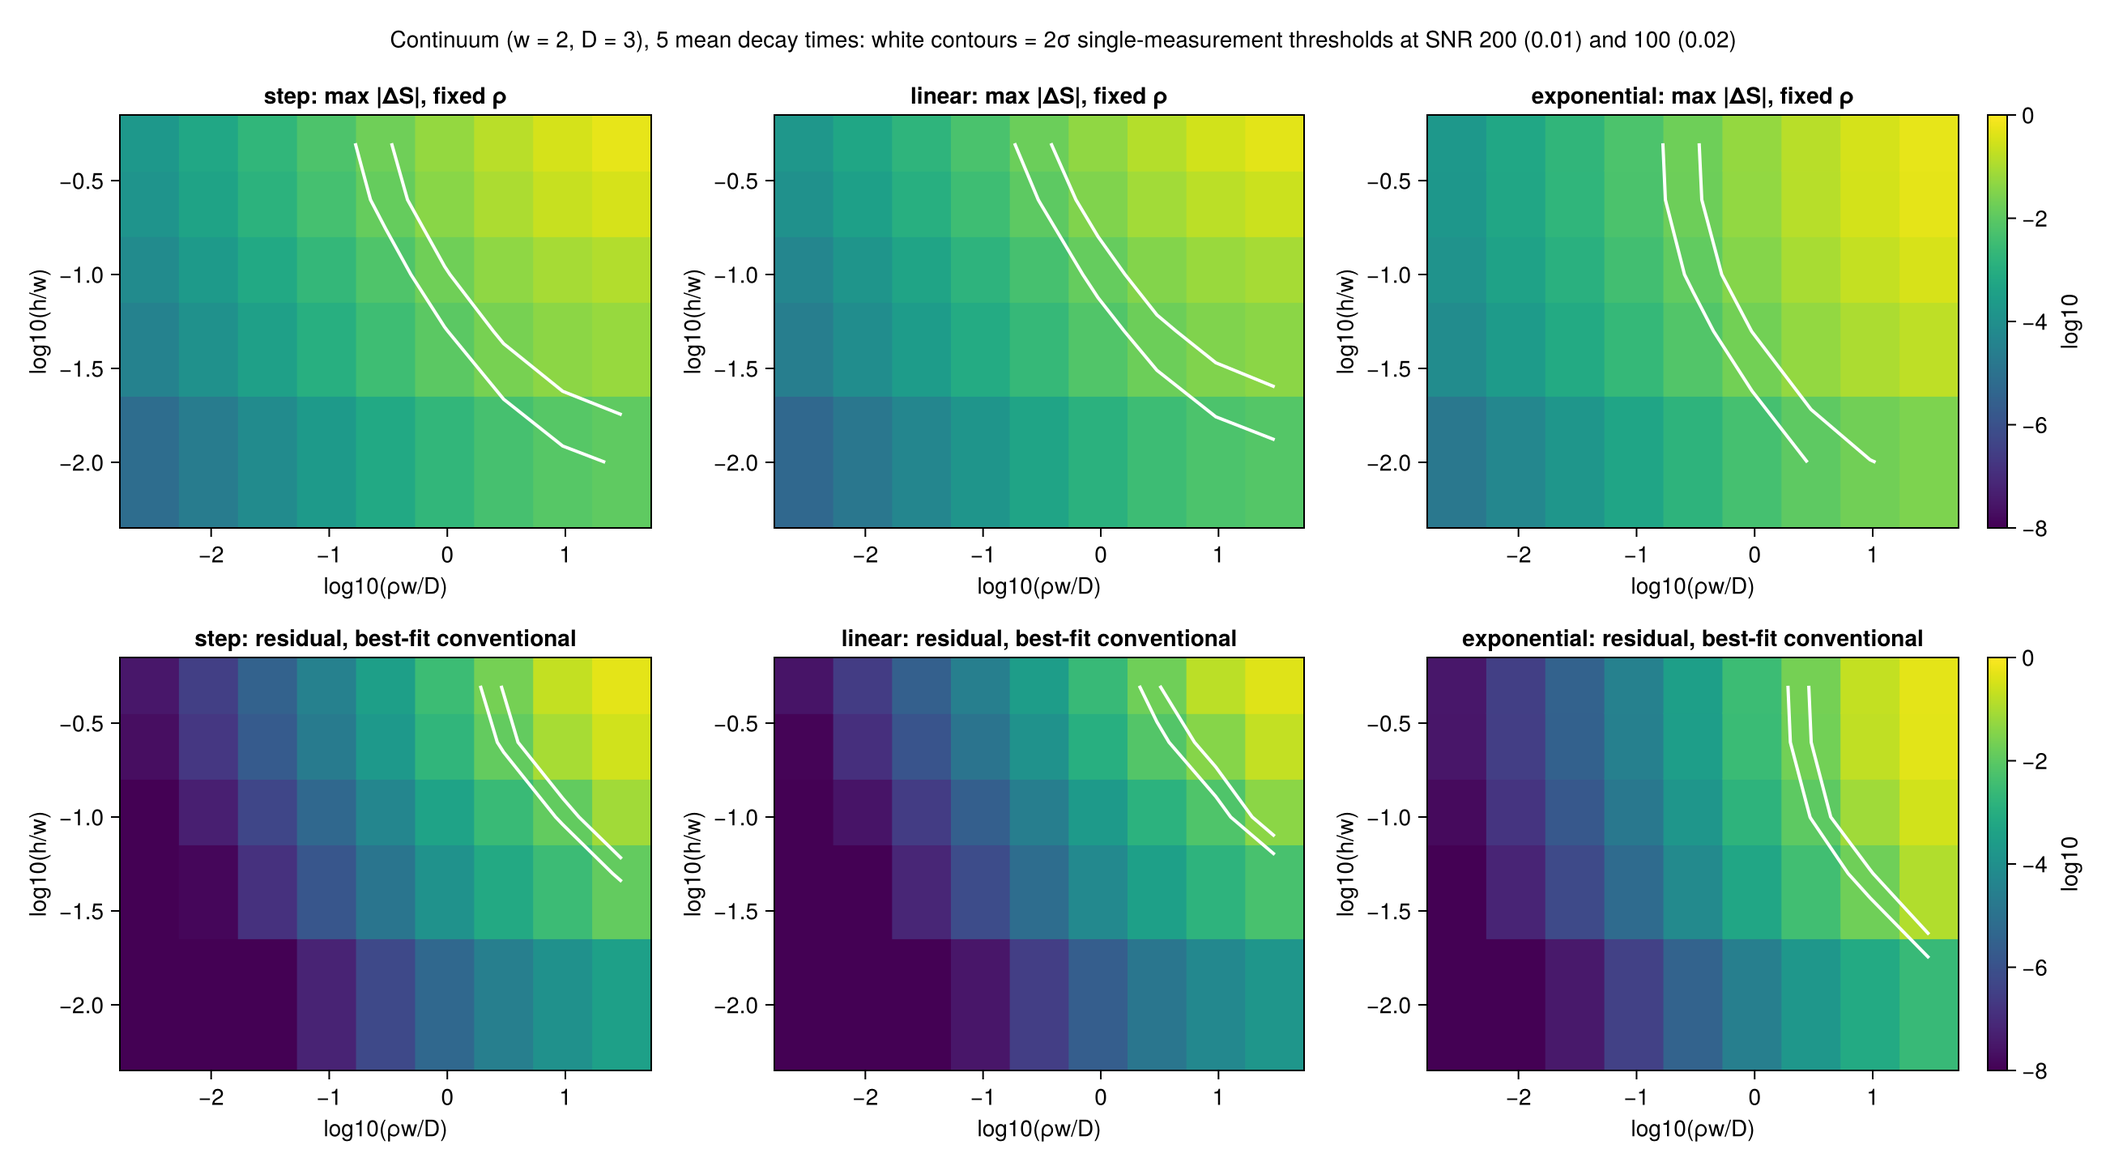
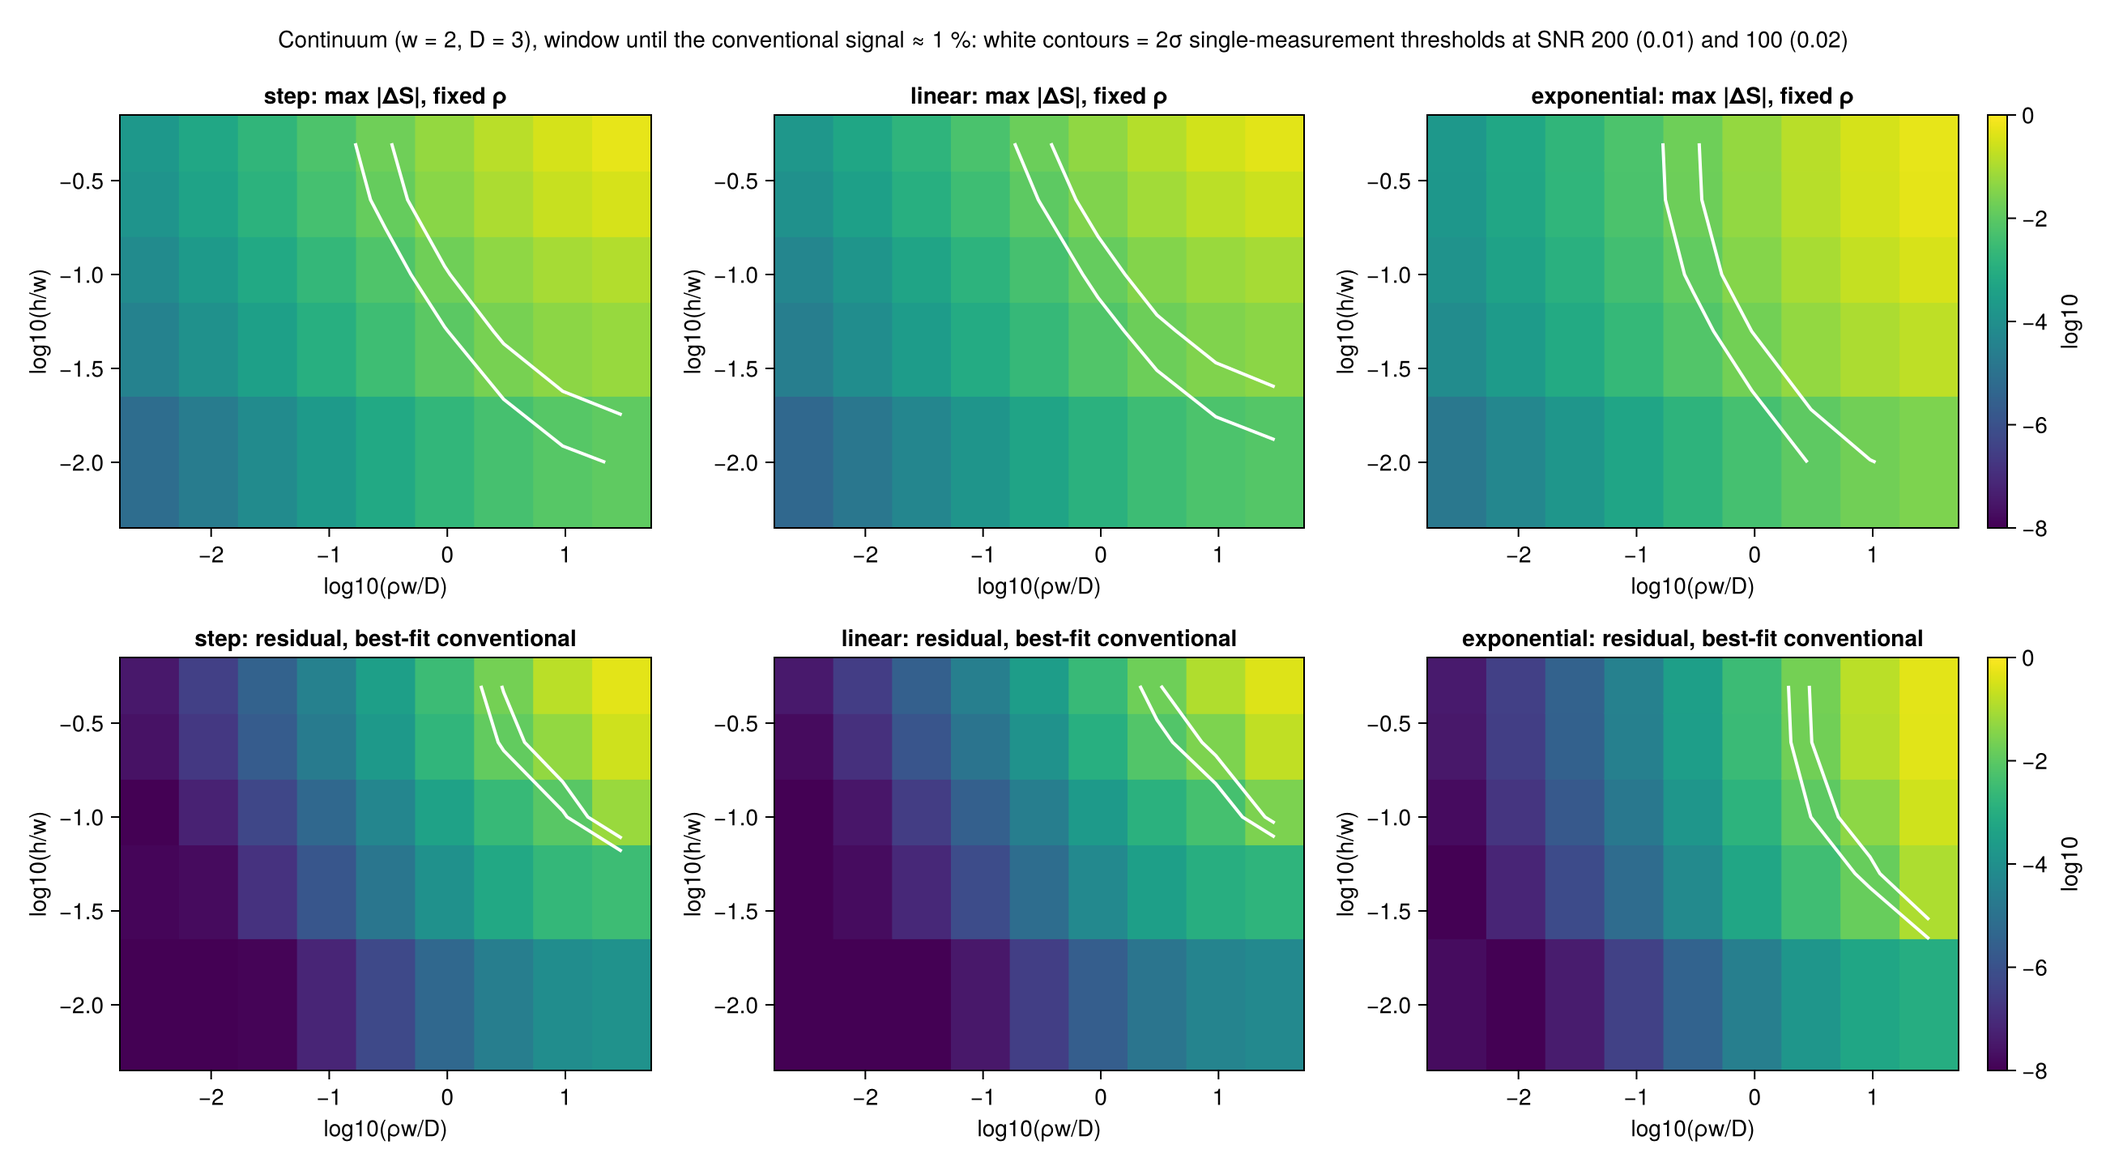
C1 follow-up review fixes: open-ended best-fit search (conventional ceiling D·pi²/w²), window to 1 % signal, caveats, deduplicated profile spread, validation wording

diff --git a/research/phase2_record.md b/research/phase2_record.md
@@ -36,11 +36,11 @@ Baselines are in [baseline_record.md](baseline_record.md). The baseline θ_relax
 | P2.4.5 (identity) | Mean-exponent identity E[−ln M] = 2ρt/w, step / linear (incl. overlapping h = 1.5) / exponential, τ = 1e-2 and 4e-2 | \|z\| ≤ 3 | **PASS** (10 of 10; \|z\| ≤ 1.1) |
 | P2.4.5 (sweep) | Exponential profile: attenuation vs h, monotonicity, decay shape (τ = 1e-2) | every step > 2 SEM; curvature reported | **PASS**: 15 of 15 steps; curvature 0 within noise (max 1.1 SEM); S(50) from 1 to 0.00180 (h = 2.0) |
 | P2.5.0 | Conventional model at the same ρ: θ = ρ√(π/D), mean-exponent identity at D = 1, 3, 6, τ = 1e-2, 4e-2 | \|z\| ≤ 3 | **PASS** (6 of 6, \|z\| ≤ 0.9); layer and baseline follow identical trajectories |
-| P2.5.1–P2.5.5 | Sensitivity to the spatial distribution at fixed ρ (layer vs conventional model, and profile vs profile; paired), sweeps h, w, D, ρ | characterisation vs MC SEM and SNR 100/200 | 41 distinct configurations: none reaches SNR 100 or 200 (32 MC-resolved, 9 not); max \|ΔS\| = 2.4e-3 (exponential, ρ = 0.1). Profiles separate from each other beyond 3σ in 39 of 40 pairs, by ≤ 1.7e-3. Shapes fall on one curve vs centroid within noise; curves mono-exponential (residual ≤ 1.4e-4) |
+| P2.5.1–P2.5.5 | Sensitivity to the spatial distribution at fixed ρ (layer vs conventional model, and profile vs profile; paired), sweeps h, w, D, ρ | characterisation vs MC SEM and SNR 100/200 | 41 distinct configurations: none reaches SNR 100 or 200 (32 MC-resolved, 9 not); max \|ΔS\| = 2.4e-3 (exponential, ρ = 0.1). Profiles separate from each other beyond 3σ in 39 of 40 pairs, by ≤ 1.7e-3. Shapes fall on one curve vs centroid within noise; curves mono-exponential (residual ≤ 1.4e-4) **Superseded in part by Review C1 (timestep bias); see the C1 rows.** |
 | P2.5.6 (prerequisite) | Idealised spin echo (instantaneous pulses) = free decay, conventional and exponential layer, TE = 50 ms | \|z\| ≤ 3 | **PASS** (both z = 0.00: equal to 6 digits) |
-| P2.5.6, P2.5.7 | Apparent T₂ vs microstructure and vs TE (paper Figs. 9, 8A analogues), conventional + three profiles at fixed ρ; same h and same centroid | ΔT₂/T₂ vs paired SEM and T₂ noise at SNR 100/200 | none observable at SNR 100/200; ΔT₂/T₂ ≤ 5.7e-3; same h: profiles separate (34/52 distinct pairs > 3σ, unpaired SEM, ≤ 3.8e-3); same centroid: residual ≤ 2.9e-4 (2/51 > 3σ unpaired); ΔT₂/T₂ flat in TE |
+| P2.5.6, P2.5.7 | Apparent T₂ vs microstructure and vs TE (paper Figs. 9, 8A analogues), conventional + three profiles at fixed ρ; same h and same centroid | ΔT₂/T₂ vs paired SEM and T₂ noise at SNR 100/200 | none observable at SNR 100/200; ΔT₂/T₂ ≤ 5.7e-3; same h: profiles separate (34/52 distinct pairs > 3σ, unpaired SEM, ≤ 3.8e-3); same centroid: residual ≤ 2.9e-4 (2/51 > 3σ unpaired); ΔT₂/T₂ flat in TE **Superseded in part by Review C1 (timestep bias); see the C1 rows.** |
 | Review C1 | Timestep bias of the fixed-ρ profile effect (P2.5, P2.5.6/7): paired ΔS at τ = 1e-2, 2.5e-3, 6.25e-4 vs exact 1D continuum | characterisation | **confirmed**: ΔS converges to the continuum as τ falls; thin-layer positive ΔS at τ = 1e-2 is an artefact; \|ΔS\| underestimated 10–65 % at h = 0.2 |
-| Review C1 follow-up | P2.5, P2.5.6/7 recomputed with the exact 1D continuum benchmark; wider ρw/D map with best-fit conventional | validated vs MC within 2.6 SEM | all ΔS, ΔT₂/T₂ < 0 (no sign change); ∝ ρ and ∝ 1/D; same centroid: profiles within 11 %; separable from a fitted conventional model (single curve, SNR 200) only for ρw/D ≳ 3–10 and h/w ≳ 0.05–0.25 depending on profile |
+| Review C1 follow-up | P2.5, P2.5.6/7 recomputed with the exact 1D continuum benchmark; wider ρw/D map with best-fit conventional | validated vs MC within 2.6 SEM | all ΔS, ΔT₂/T₂ < 0 (no sign change); ∝ ρ and ∝ 1/D; same centroid: profiles within 11 %; separable from a fitted conventional model (single curve, SNR 200) only for ρw/D ≳ 3 with h/w ≳ 0.1–0.5 depending on profile (beyond the conventional model's ceiling D·π²/w² no θ fits) |
 | P2.6.1 | V1: timestep plateau (toy, h = 0.1, ΔR₂(0) = 0.1, τ = 1e-5–0.1 ms) + MCMR at 4 τ | τ_conv at 1 % / 0.1 %; MCMR = toy within 2 SEM | 1 % never exceeded (τ_conv ≥ 0.1 ms); τ_conv(0.1 %) = 0.086 ms; bias at 0.1 ms −1.1e-3 (less attenuation); MCMR vs toy **PASS** (\|z\| ≤ 1.3) |
 | P2.6.2, P2.6.3 | V2 (h²) and V3 (1/D) scaling of τ_conv; decision point (rate) | τ_conv·D/h² and τ_conv·D constant within ±30 % | **V2 FAIL, V3 FAIL** (no h² or 1/D scaling; h/D trends at ΔR₂(0) = 0.1 within noise). τ_conv set by ΔR₂(0)·τ: 0.048–0.13 (1 %), 0.0028–0.0065 (0.1 %) over h = 0.01–0.4, D = 1–3; bias at 0.1 ms ∝ ΔR₂(0) |
 | P2.6.4 | Profile dependence of the timestep error (linear vs step, toy + MCMR check) | record whether the constraint depends on shape | linear less demanding in every pair (bias at 0.1 ms 0.53–0.78× step); error at c = 0.005 at most 1.2e-3 ± 3e-4 (linear), 1.5e-3 ± 4e-4 (step), 8.3e-4 ± 2e-4 (exponential) → same c for all three; MCMR = toy for linear (\|z\| ≤ 1.3) |
@@ -921,7 +921,7 @@ Independent whole-project review (2026-10-12): an exact 1D continuum solution of
 
 Script [p2_5_tau_check.jl](phase2/p2_5_tau_check.jl) → [results/phase2/p2_5_tau_check/](results/phase2/p2_5_tau_check/). Same paired comparison as P2.5 at τ = 1e-2, 2.5e-3, 6.25e-4 ms (w = 2, D = 3, ρ = 0.01, R₂_bulk = 0, seeds 1–10, 50000 spins). ΔS at t = 90 ms:
 
-| profile | h (µm) | τ = 1e-2 | τ = 2.5e-3 | τ = 6.25e-4 | continuum | (MC at 6.25e-4 − continuum)/SEM |
+| profile | h (µm) | τ = 1e-2 | τ = 2.5e-3 | τ = 6.25e-4 | continuum (reviewer's script, N = 3000; the committed solver gives values within 1 %) | (MC at 6.25e-4 − continuum)/SEM |
 |---|---|---|---|---|---|---|
 | step | 0.05 | +1.21e-04 ± 1e-05 | +3.57e-05 ± 1e-05 | -2.14e-05 ± 8e-06 | -3.95e-05 | +2.4 |
 | linear | 0.05 | +1.61e-04 ± 1e-05 | +6.54e-05 ± 1e-05 | -9.03e-06 ± 7e-06 | -2.78e-05 | +2.6 |
@@ -933,7 +933,7 @@ Script [p2_5_tau_check.jl](phase2/p2_5_tau_check.jl) → [results/phase2/p2_5_ta
 
 **Cause.** The timestep constraint c = 0.005 (P2.6.5) keeps the error in the decay rate R near 0.1 %, which it does. But the profile effect at fixed ρ is itself only ≈ 0.03–0.15 % of R, the same size as that error, and the error depends on the profile. For comparisons of profiles at fixed ρ the timestep must be set by the error in ΔS, not in R.
 
-**Affected claims (not yet corrected; pending decision):** P2.5 and P2.5.6/P2.5.7 statements on the thin-layer sign (positive ΔS / longer T₂), the sign change near centroid 0.05 µm, "linear does not follow 1/D", the ρ-scaling per decade, the extrapolated ρ for SNR 200, and the size of |ΔS| and ΔT₂/T₂ for h ≤ 0.2. Not affected: the absence of any configuration reaching the SNR-100/200 thresholds (continuum maximum |ΔS| ≈ 2.7e-3), the mapping θ = ρ√(π/D), and the step, linear and exponential verifications.
+**Affected claims (corrected in "Review C1 follow-up" below):** P2.5 and P2.5.6/P2.5.7 statements on the thin-layer sign (positive ΔS / longer T₂), the sign change near centroid 0.05 µm, "linear does not follow 1/D", the ρ-scaling per decade, the extrapolated ρ for SNR 200, and the size of |ΔS| and ΔT₂/T₂ for h ≤ 0.2. Not affected: the absence of any configuration reaching the SNR-100/200 thresholds (continuum maximum |ΔS| ≈ 2.7e-3), the mapping θ = ρ√(π/D), and the step, linear and exponential verifications.
 
 ## Review C1 follow-up: P2.5 and P2.5.6/7 recomputed with the exact continuum benchmark
 
@@ -966,7 +966,11 @@ Script [p2_5_continuum.jl](phase2/p2_5_continuum.jl) and figures [p2_5_continuum
 | P2.5 h sweep τ=1e-2 | linear | 2 | -4.05e-04 ± 2e-05 | -4.08e-04 | +0.2 |
 | P2.5 h sweep τ=1e-2 | exponential | 2 | -4.04e-04 ± 2e-05 | -4.08e-04 | +0.2 |
 
-All points agree within 2.6 SEM. The continuum therefore stands in for the Monte Carlo values below; the Monte Carlo at τ = 1e-2 stays recorded above as the biased first pass.
+All points agree within 2.6 SEM. Two caveats:
+- The two thin-layer points (h = 0.05) both sit on the same side (z = +2.3, +2.6), and their τ trend has not clearly levelled off (step h = 0.05: −8.5e-5 then −5.7e-5 per factor-4 step; a first-order extrapolation lands on the continuum value, a √τ extrapolation overshoots it). The negative sign is established; the thin-layer magnitudes are consistent with, but not independently confirmed by, Monte Carlo.
+- Step h = 1 and linear h = 2 are the same uniform model with identical Monte Carlo data, so they count as one comparison.
+
+The continuum is independently checked against an exact non-uniform case (step layer, h < w/2: lowest rate from the matching equation κ·tanh(κh) = k·tan(k(w/2 − h)), agreement to 1.7e-8 relative; review of this follow-up). It therefore stands in for the Monte Carlo values below; the Monte Carlo at τ = 1e-2 stays recorded above as the biased first pass.
 
 **P2.5 corrected (fixed ρ, layer − conventional, readouts 0:10:200).**
 - All 41 distinct configurations give **negative ΔS**: at the same ρ the layer always attenuates slightly more than the conventional model, and ΔS → 0 as h → 0. The largest is −2.68e-3 (exponential, h = 0.2, ρ = 0.1). None reaches the SNR-100/200 thresholds (0.02 / 0.01).
@@ -977,20 +981,20 @@ All points agree within 2.6 SEM. The continuum therefore stands in for the Monte
 
 **P2.5.6/7 corrected (apparent T₂, TE = 50; R₂_bulk = 1/2000).**
 - Every ΔT₂/T₂ is negative, in both matchings and at every TE. The largest is −6.0e-3 (same h) and −3.5e-3 (same centroid), both exponential at D = 0.5. None reaches the two-point T₂ noise at SNR 200.
-- **Centroid matching.** At the same h the three profiles differ by up to 69 % of the effect (largest pair difference 3.65e-3). At the same centroid they agree within 11 % (median 4 %, largest pair difference 2.75e-4). The centroid-collapse conclusion holds, now without the timestep bias; the residual is ≈ 10 %.
+- **Centroid matching** (`p2_5_continuum_figs.jl`, distinct configurations, |a − b|/max(|a|, |b|) per profile pair at TE = 50). At the same h the three profiles differ by up to 69 % of the effect (median 46 %, 52 pairs; largest difference 3.65e-3). At the same centroid they agree within 11 % (median 4 %, 51 pairs; largest difference 2.75e-4). The centroid-collapse conclusion holds, now without the timestep bias; the residual is ≈ 10 %.
 - **TE.** ΔT₂/T₂ is constant in TE from 30 to 200 ms to within 2e-6. There is no thin-layer "longer T₂".
 
 ![continuum T2](results/phase2/p2_5_continuum/p2_5_continuum_t2.png)
 
-**Wider map (w = 2, D = 3, ρw/D = 0.003–30, h/w = 0.01–0.5; five mean decay times).** Two quantities, each against the single-measurement thresholds (0.01 = 2σ at SNR 200):
+**Wider map (w = 2, D = 3, ρw/D = 0.003–30, h/w = 0.01–0.5; no bulk R₂; 41 readouts from 0 until the conventional signal reaches ≈ 1 %).** Two quantities, each against the single-measurement threshold (0.01 = 2σ at SNR 200):
 - max |ΔS| at **fixed ρ** (ρ known);
-- the residual after fitting the **conventional model's ρ freely** to the layer curve, which is the realistic test for a single condition.
+- the minimax residual after fitting the **conventional model's ρ freely** to the layer curve, which is the realistic test for a single condition. The fit is a coarse scan of ρ_fit over e^−4…e^8 × ρ, then golden-section refinement. (Review of this follow-up: the first version searched only ±1.5 decades and stopped at its edge in 18 rows.)
 
 | profile | h/w | fixed ρ: first ρw/D with max\|ΔS\| ≥ 0.01 | best-fit conventional: first ρw/D with residual ≥ 0.01 |
 |---|---|---|---|
 | step | 0.01 | 30 | > 30 |
-| step | 0.05 | 3 | 30 |
-| step | 0.1 | 0.95 | 9.5 |
+| step | 0.05 | 3 | > 30 |
+| step | 0.1 | 0.95 | 30 |
 | step | 0.25 | 0.3 | 3 |
 | step | 0.5 | 0.3 | 3 |
 | linear | 0.01 | > 30 | > 30 |
@@ -1006,8 +1010,10 @@ All points agree within 2.6 SEM. The continuum therefore stands in for the Monte
 
 ![map](results/phase2/p2_5_continuum/p2_5_continuum_map.png)
 
-- At fixed ρ the profile effect becomes visible at SNR 200 once ρw/D is of order 0.3–1 for layers with h/w ≥ 0.1, and later for thinner ones.
-- With the conventional model's ρ free, a single free-decay curve separates from it at SNR 200 only for ρw/D of order 3–10 with a thick enough layer: exponential from h/w ≈ 0.05 (ρw/D ≈ 9.5), step from h/w ≈ 0.1 (≈ 9.5), linear from h/w ≈ 0.25 (≈ 9.5); at h/w ≥ 0.25 already from ρw/D ≈ 3 for step and exponential. Below that, a fitted conventional model reproduces the layer curve within the single-measurement noise.
+- At fixed ρ the profile effect becomes visible at SNR 200 once ρw/D is about 0.3–1 for layers with h/w ≥ 0.1 (exponential from h/w = 0.05), and later for thinner ones.
+- With the conventional model's ρ free, a single free-decay curve separates from it at SNR 200 only for ρw/D ≈ 3–30 with a thick enough layer: from ρw/D ≈ 3 for step and linear at h/w = 0.5, step at 0.25, and exponential at h/w ≥ 0.1; later for thinner layers; not at all within ρw/D ≤ 30 for h/w ≤ 0.05 (step, linear) or 0.01 (all).
+- **Why the fit fails there.** In 15 rows (ρw/D ≥ 9.5) the best conventional fit runs to ρ_fit → ∞, i.e. perfectly absorbing walls. A wall sink cannot decay the signal faster than D·π²/w² = 7.40 ms⁻¹ (w = 2, D = 3), whereas a strong layer relaxes spins inside the volume; for example, step h/w = 0.25 at ρw/D = 9.5 decays at 9.36 ms⁻¹. The residual there has converged to its limit: pushing ρ_fit from e^8 to e^16 × ρ changes it by ≤ 0.2 %. Beyond this ceiling no conventional θ can reproduce the layer curve.
+- **Caveats.** These are single conditions (one w, D) of free decay on walls, with no bulk R₂. The residual is a maximum over 41 correlated readouts compared with a single-point 2σ threshold, so it indicates rather than calibrates detectability. A joint fit across several w, D or TE at a shared ρ is the stronger test and has not been done.
 - All earlier P2.5 runs had ρw/D ≤ 0.07, well inside the region where neither test separates the models.
 
 **Superseded statements.** In the P2.5 and P2.5.6/7 sections above, these statements come from the timestep-biased Monte Carlo and are replaced by this section:

diff --git a/research/project-progress-tracker.md b/research/project-progress-tracker.md
@@ -224,11 +224,11 @@ Characterisation mode: **ρ fixed**, same reference configuration for every prof
 
 | ID | ☐ | Task | Pass criterion | Output |
 |---|---|---|---|---|
-| P2.5.1 | ☑ | Fixed ρ, λ/*w* ≪ 1 (e.g. 0.01–0.05), all profiles | Fixed ρ **and** fixed *h* (proposal §3.2 aim). Record the level of agreement between profiles with σ; no expected outcome assumed | h ≤ 0.1 (h/w ≤ 0.05), fixed ρ and h: step, linear and exponential separate from each other beyond 3σ (paired; e.g. linear − exponential 1.8e-4 ± 8e-6 at h = 0.1), all ≤ 1.8e-4, far below MRI noise; vs conventional model ≤ 1.6e-4. `p2_5_summary/profile_pairs.csv` |
+| P2.5.1 | ☑ | Fixed ρ, λ/*w* ≪ 1 (e.g. 0.01–0.05), all profiles | Fixed ρ **and** fixed *h* (proposal §3.2 aim). Record the level of agreement between profiles with σ; no expected outcome assumed | h ≤ 0.1 (h/w ≤ 0.05), fixed ρ and h: step, linear and exponential separate from each other beyond 3σ (paired; e.g. linear − exponential 1.8e-4 ± 8e-6 at h = 0.1), all ≤ 1.8e-4, far below MRI noise; vs conventional model ≤ 1.6e-4. `p2_5_summary/profile_pairs.csv` **Corrected (Review C1):** the vs-conventional values here are timestep-biased (thin layers positive); in the exact continuum all are negative and small. |
 | P2.5.2 | ☑ | Fixed ρ, sweep λ/*w* from 0.01 to 0.5, all profiles | Curves of *S*(*t*) (and a descriptive rate) vs *h*/*w* per profile | h/w 0.025–1 (h = 0.05–2, w = 2; criterion asked 0.01–0.5) at fixed ρ: ΔS(t) curves and peaks per shape; also w, D, ρ sweeps. `p2_5_summary/p2_5_sweeps.png`, `p2_5_curves.png` |
 | P2.5.3 | ☑ | Report centroid λ*ū* alongside λ for each profile (step 0.5λ, linear 0.33λ, poly *n* λ/(*n*+2), exponential 1.0λ) | Centroid column in every shape table | centroid column in every P2.5 table (exponential truncated at w: h(1 − (c+1)e^(−c))/(1 − e^(−c))) |
 | P2.5.4 | ☑ | Replot P2.5.2 against centroid instead of λ | Note whether shape differences shrink | shapes fall on one curve vs centroid within noise (≤ 1.3 combined SEM); resolved sign change between centroids 0.033 and 0.1 µm. `p2_5_centroid.png` **Corrected (Review C1):** the sign change was a timestep artefact; in the exact continuum ΔS < 0 everywhere and the same-centroid collapse holds within 11 %. |
-| P2.5.5 | ☑ | Summary: where (if anywhere) profiles separate beyond 3σ on walls | Written paragraph with numbers | profiles separate beyond 3σ (MC) in 39 of 40 pairs, by ≤ 1.7e-3; none of 41 configurations reaches SNR 100/200 (vs conventional model max 2.4e-3); layer curves mono-exponential. `phase2_record.md` P2.5 **Corrected (Review C1):** continuum: all ΔS < 0, ∝ ρ, ∝ 1/D, max 2.7e-3; separable from a fitted conventional model only for ρw/D ≳ 3–10. |
+| P2.5.5 | ☑ | Summary: where (if anywhere) profiles separate beyond 3σ on walls | Written paragraph with numbers | profiles separate beyond 3σ (MC) in 39 of 40 pairs, by ≤ 1.7e-3; none of 41 configurations reaches SNR 100/200 (vs conventional model max 2.4e-3); layer curves mono-exponential. `phase2_record.md` P2.5 **Corrected (Review C1):** continuum: all ΔS < 0, ∝ ρ, ∝ 1/D, max 2.7e-3; separable from a fitted conventional model only for ρw/D ≳ 3 with thick layers (h/w ≳ 0.1–0.5). |
 | P2.5.6 | ☑ | Apparent T₂ vs w, h, D, ρ for the conventional model and three profiles at fixed ρ (Fig. 9 analogue, TE = 20/50/100); sub-test at the same centroid (centroid sweep instead of h) | ΔT₂/T₂ reported with paired SEM and two-point T₂ noise at SNR 100/200 | none observable; same h: profiles separate (34/52 pairs > 3σ unpaired, ≤ 3.8e-3); same centroid: residual ≤ 2.9e-4 (2/51 > 3σ). `p2_5_t2_summary/` **Corrected (Review C1):** continuum ΔT₂/T₂ < 0 everywhere, max −6.0e-3 (same h), −3.5e-3 (same centroid), profiles within 11 % at same centroid. |
 | P2.5.7 | ☑ | Apparent T₂ vs echo time (TE = 5–200 ms) for the conventional model and three profiles at fixed ρ, w = 1, 2, 5 and h = 0.05, 0.2, 0.5; sub-test at the same centroid (Fig. 8A analogue, no off-resonance) | ΔT₂/T₂ vs TE with paired SEM and two-point T₂ noise at SNR 200 | T₂_app flat in TE; ΔT₂/T₂ constant in TE beyond ≈ 30 ms, |ΔT₂/T₂| ≤ 1.5e-3. `p2_5_t2_summary/p2_5_t2_fig8a*.png` **Corrected (Review C1):** continuum ΔT₂/T₂ < 0 and constant in TE (30–200 ms) within 2e-6. |
 
